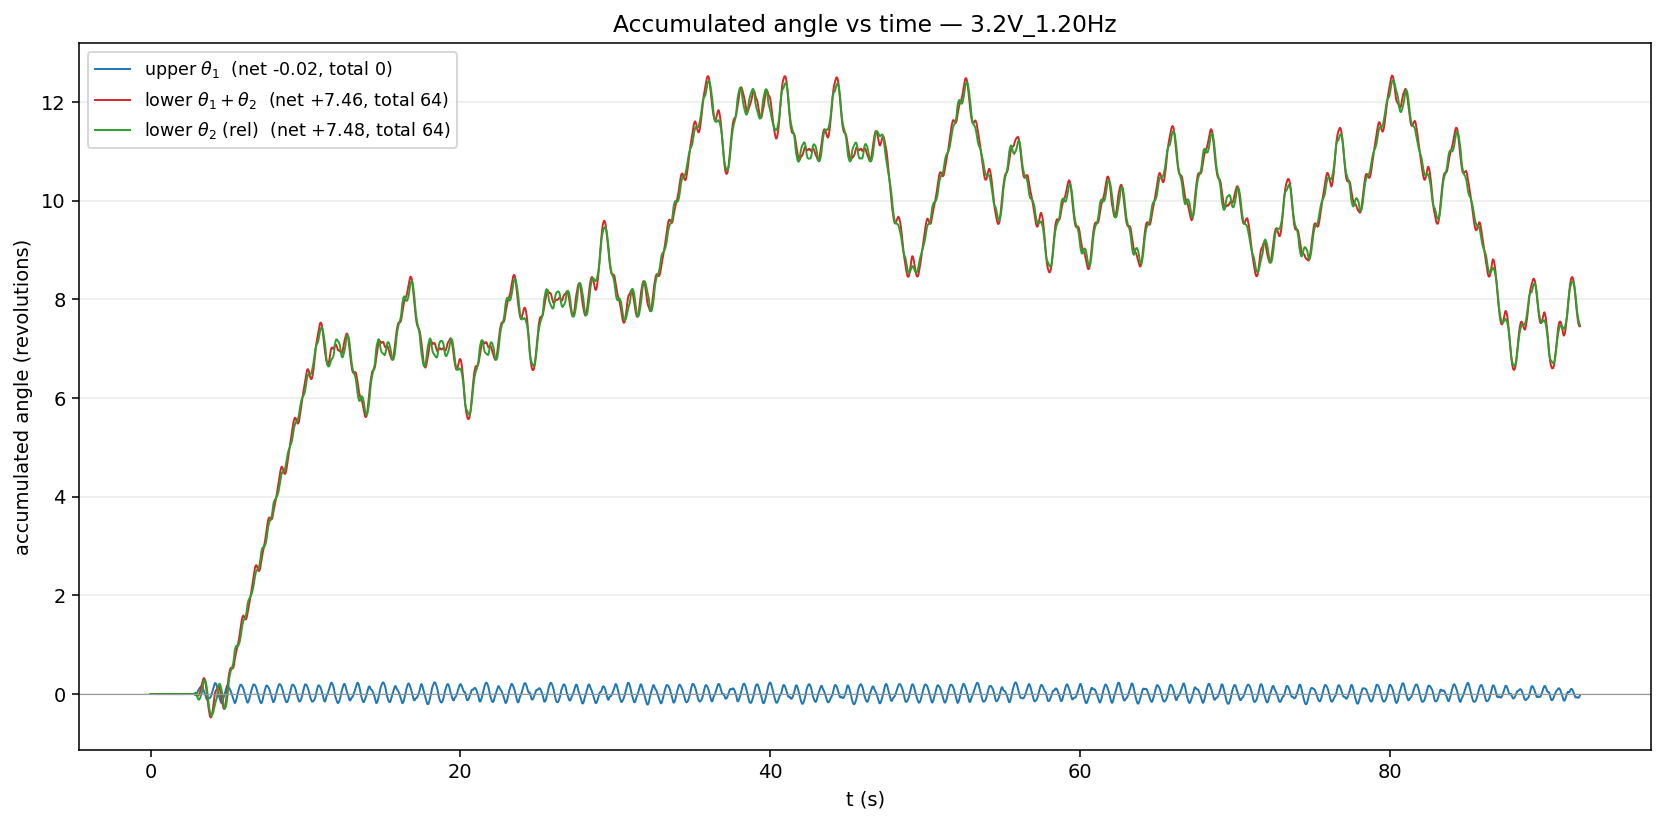
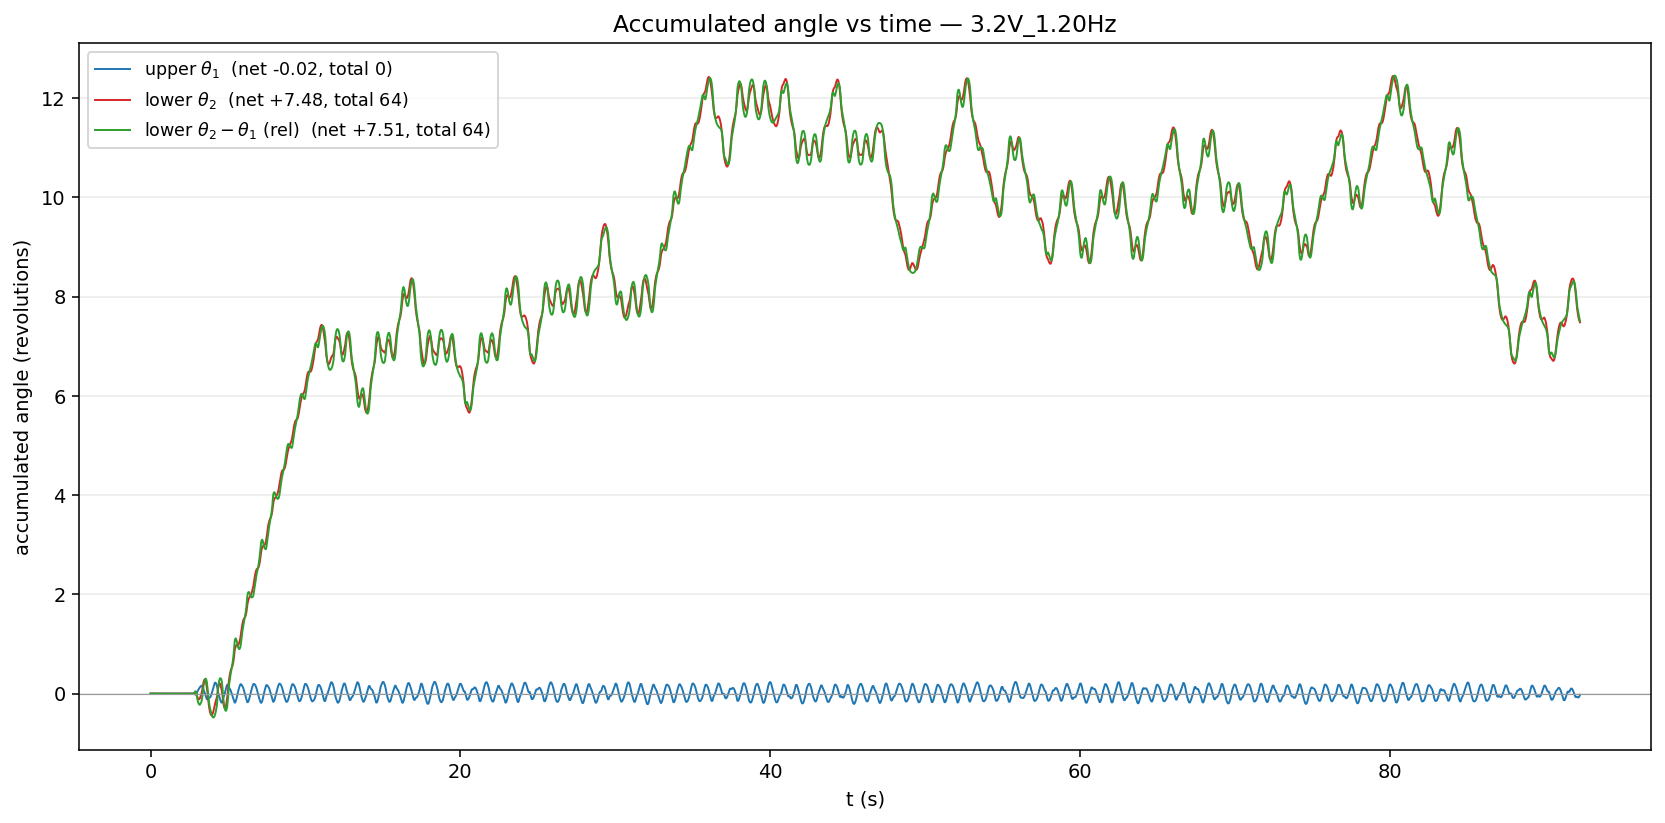
Fix rotations lower-arm convention: theta2 is already absolute
theta2_deg from the tracker is the lower arm's absolute lab-frame angle
(verified in both free-swing and driven CSVs and against the overlay
video), not relative to the upper arm. rotations.py wrongly defined
lower_abs = theta1 + theta2, over-rotating by theta1.

Corrected: lower_abs = theta2, lower_rel = theta2 - theta1, with matching
omega (om2 / om2 - om1); docstring + table/figure labels updated.
Regenerated the 3.2V sweep aggregate and the 0.91Hz/1.20Hz per-clip
outputs under the corrected convention.

Net loop counts are ~unchanged (theta1 nets ~0 turns); per-frame
accumulated angle, peak excursion, and the relative signal are now correct.
The same theta1+theta2 assumption remains in chaos_analyze / poincare /
quick_insights / sanity_check / group_animations (not touched here).

diff --git a/scripts/analysis/rotations.py b/scripts/analysis/rotations.py
@@ -11,9 +11,9 @@ The angles in tracking.csv / verification.csv are wrapped to (-180, 180]
 (atan2 output), so every signal is re-unwrapped first. Three signals:
 
     upper      theta1               upper arm, lab frame
-    lower_abs  theta1 + theta2      lower arm, lab frame  <- where driven
+    lower_abs  theta2               lower arm, lab frame  <- where driven
                                     clips actually loop the pivot
-    lower_rel  theta2               lower arm relative to the upper arm
+    lower_rel  theta2 - theta1      lower arm relative to the upper arm
                                     (joint / elbow winding)
 
 Per signal:
@@ -93,13 +93,13 @@ RUN_PHASES = ("driven", "free_swing")
 # Labels for rich tables (unicode) and matplotlib (mathtext).
 ARM_LABELS = {
     "upper":     "upper  θ₁",
-    "lower_abs": "lower  θ₁+θ₂",
-    "lower_rel": "lower  θ₂ (rel)",
+    "lower_abs": "lower  θ₂",
+    "lower_rel": "lower  θ₂−θ₁ (rel)",
 }
 ARM_MATH = {
     "upper":     r"upper $\theta_1$",
-    "lower_abs": r"lower $\theta_1+\theta_2$",
-    "lower_rel": r"lower $\theta_2$ (rel)",
+    "lower_abs": r"lower $\theta_2$",
+    "lower_rel": r"lower $\theta_2-\theta_1$ (rel)",
 }
 ARM_COLOR = {"upper": "tab:blue", "lower_abs": "tab:red", "lower_rel": "tab:green"}
 
@@ -237,8 +237,8 @@ def load_clip(csv_path):
 
 def arm_signal(d, arm):
     if arm == "upper":     return d["th1"]
-    if arm == "lower_abs": return d["th1"] + d["th2"]
-    if arm == "lower_rel": return d["th2"]
+    if arm == "lower_abs": return d["th2"]                 # θ₂ is already lab-frame absolute
+    if arm == "lower_rel": return d["th2"] - d["th1"]      # lower arm relative to upper
     raise ValueError(arm)
 
 
@@ -246,8 +246,8 @@ def arm_omega(d, arm):
     if not d.get("has_omega"):
         return None
     if arm == "upper":     return d["om1"]
-    if arm == "lower_abs": return d["om1"] + d["om2"]
-    if arm == "lower_rel": return d["om2"]
+    if arm == "lower_abs": return d["om2"]                 # ω of absolute lower angle θ₂
+    if arm == "lower_rel": return d["om2"] - d["om1"]      # d(θ₂ − θ₁)/dt
     raise ValueError(arm)
 
 
